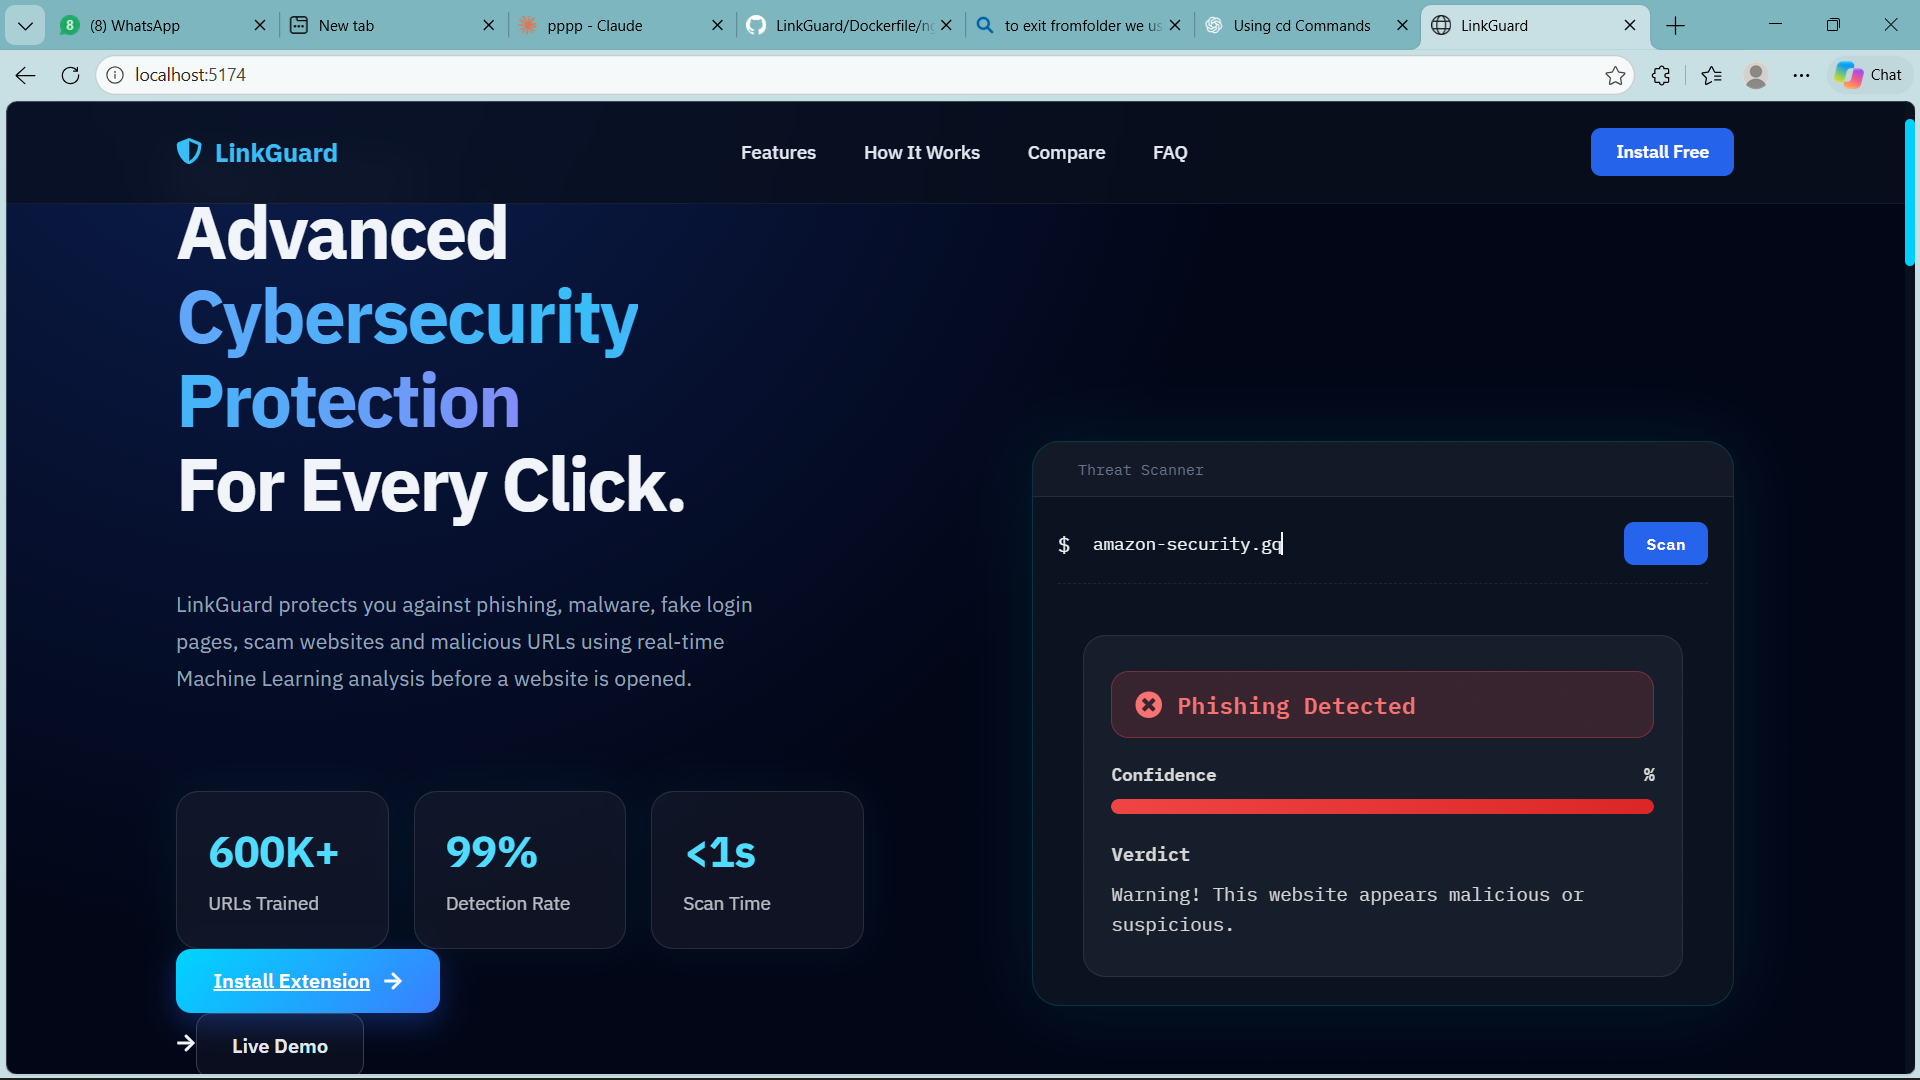
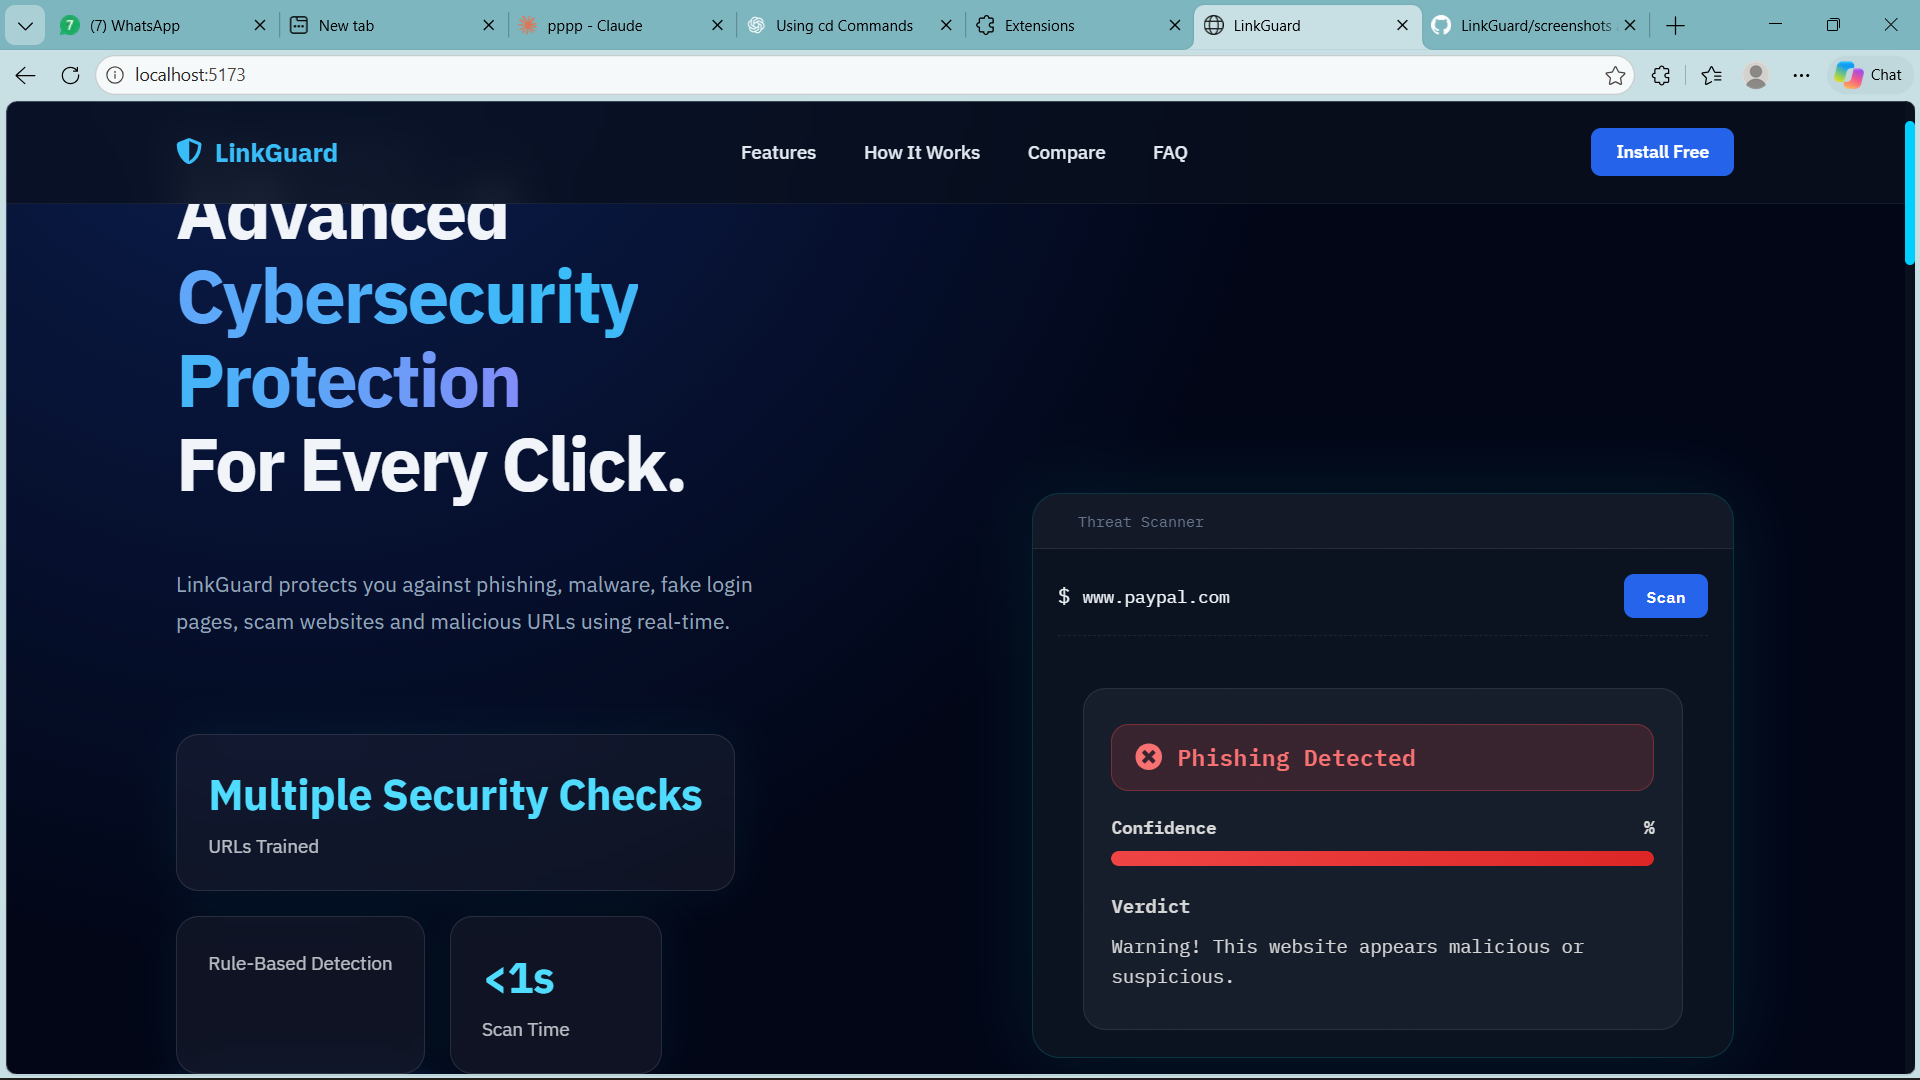
Updated homepage and project screenshots

diff --git a/frontend/src/pages/Home.jsx b/frontend/src/pages/Home.jsx
@@ -89,7 +89,7 @@ setResult({
   prediction: data.prediction,
   explanation:
     data.prediction === "Safe"
-      ? "This URL appears safe based on machine learning analysis."
+      ? "This URL appears safe ."
       : "Warning! This website appears malicious or suspicious."
 });
   } catch (err) {
@@ -105,7 +105,7 @@ setResult({
   {
     title: "Threat Detection",
     icon: <FaRobot />,
-    desc: "Machine learning detects phishing, malware, defacement and suspicious URLs in real time."
+    desc: "This detects phishing, malware, defacement and suspicious URLs in real time."
   },
   {
     title: "Browser Protection",
@@ -225,20 +225,19 @@ className="hero-badge"
 
 <motion.p variants={fadeUp} className="hero-description">
   LinkGuard protects you against phishing, malware, fake login
-  pages, scam websites and malicious URLs using real-time Machine
-  Learning analysis before a website is opened.
+  pages, scam websites and malicious URLs using real-time.
 </motion.p>
 
 <motion.div variants={fadeUp} className="hero-stats">
 
   <div className="stat-box">
-      <h2>600K+</h2>
+      <h2>Multiple Security Checks</h2>
       <span>URLs Trained</span>
   </div>
 
   <div className="stat-box">
-      <h2>99%</h2>
-      <span>Detection Rate</span>
+      
+      <span>Rule-Based Detection</span>
   </div>
 
   <div className="stat-box">
@@ -278,17 +277,17 @@ className="hero-stats"
 
 <div>
 
-<h2>98.7%</h2>
 
-<span>Detection Accuracy</span>
+
+<span>Trusted Domain Validation</span>
 
 </div>
 
 <div>
 
-<h2>0.4s</h2>
 
-<span>Average Scan</span>
+
+<span>Suspicious URL Detection</span>
 
 </div>
 
@@ -696,7 +695,7 @@ Stay One Step Ahead of Cyber Threats
 </h2>
 
 <p>
-LinkGuard uses Machine Learning to detect malicious websites before they can steal your credentials or infect your device.
+LinkGuard  detects malicious websites before they can steal your credentials or infect your device.
 </p>
           <a
   href="/downloads/LinkGuard-extension.zip"
